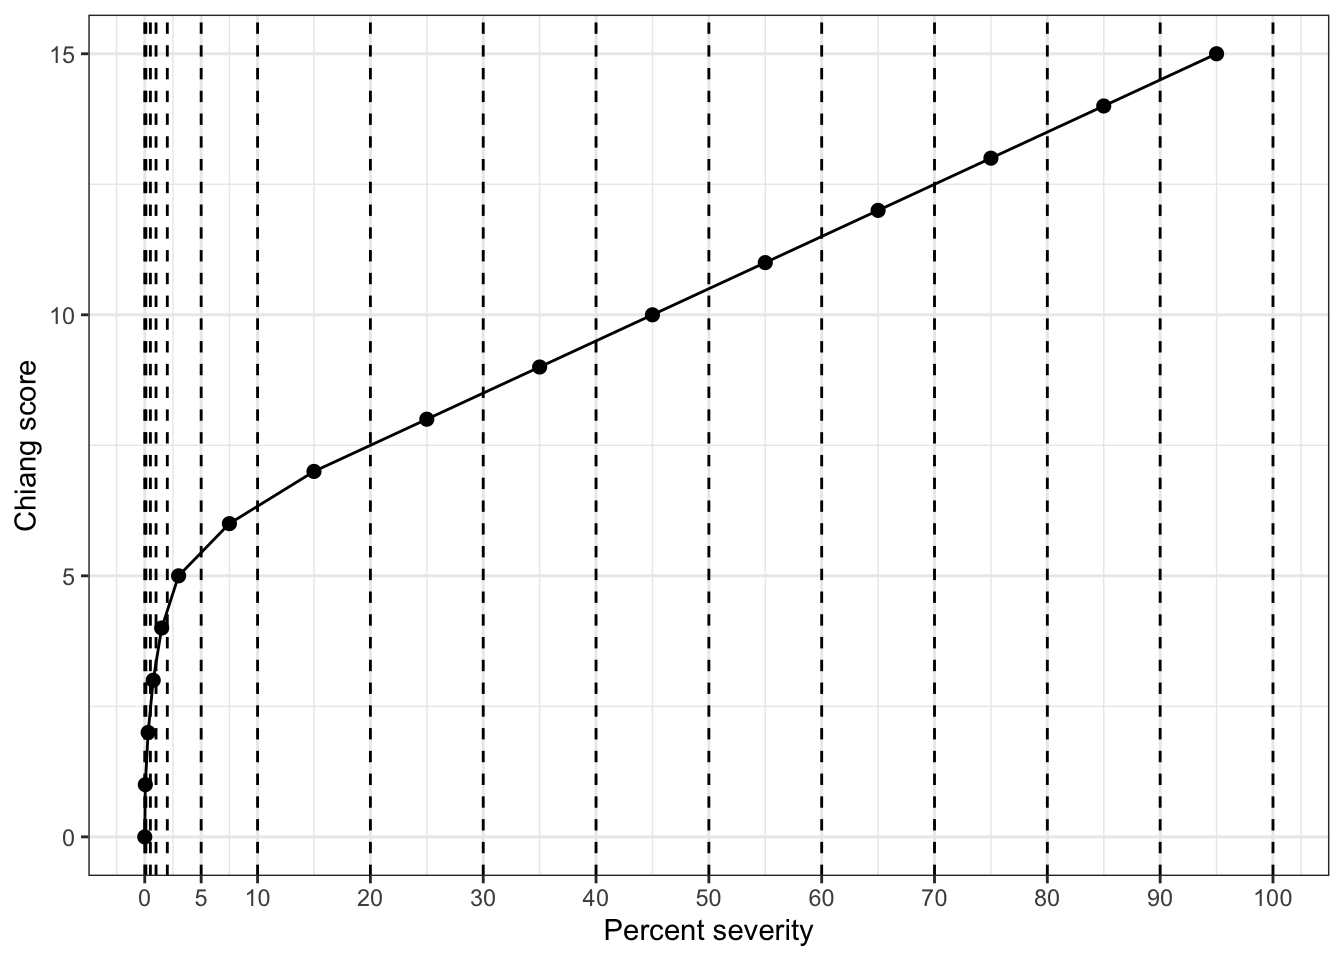
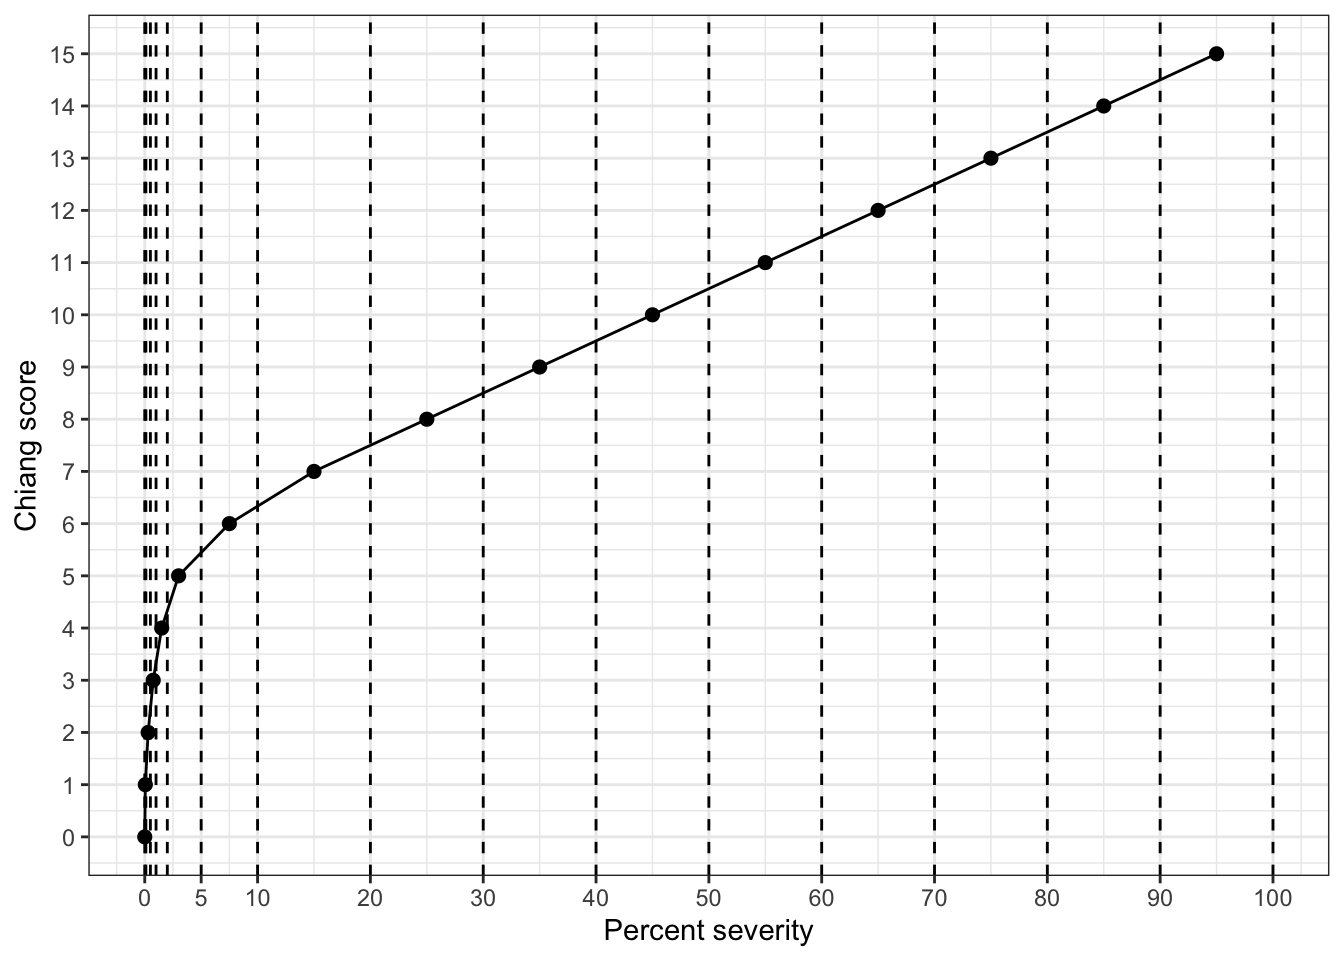
adjust chiang

Changed region(s): [[0.0312, 0.1562, 0.0625, 0.1875], [0.0312, 0.0938, 0.0625, 0.125]]

diff --git a/_book/data-ordinal.html b/_book/data-ordinal.html
@@ -293,7 +293,7 @@ gtag('config', 'G-5T7SZYQV79', { 'anonymize_ip': true});
 </li>
           <li class="sidebar-item">
   <div class="sidebar-item-container"> 
-  <a href="./spatial-tests.html" class="sidebar-item-text sidebar-link"><span class="chapter-number">14</span>&nbsp; <span class="chapter-title">Tests for spatial patterns</span></a>
+  <a href="./spatial-tests.html" class="sidebar-item-text sidebar-link"><span class="chapter-number">14</span>&nbsp; <span class="chapter-title">Tests for patterns</span></a>
   </div>
 </li>
       </ul>
@@ -620,24 +620,25 @@ Controversy of the H-B scale
 <span id="cb4-4"><a href="#cb4-4" aria-hidden="true" tabindex="-1"></a>  <span class="fu">ggplot</span>(<span class="fu">aes</span>(midpoint, ordinal))<span class="sc">+</span></span>
 <span id="cb4-5"><a href="#cb4-5" aria-hidden="true" tabindex="-1"></a>  <span class="fu">geom_point</span>(<span class="at">size =</span><span class="dv">2</span>)<span class="sc">+</span></span>
 <span id="cb4-6"><a href="#cb4-6" aria-hidden="true" tabindex="-1"></a>  <span class="fu">geom_line</span>()<span class="sc">+</span></span>
-<span id="cb4-7"><a href="#cb4-7" aria-hidden="true" tabindex="-1"></a>  <span class="fu">scale_x_continuous</span>(<span class="at">breaks =</span> <span class="fu">c</span>(<span class="dv">0</span>, <span class="dv">5</span>, <span class="dv">10</span>, <span class="dv">20</span>, <span class="dv">30</span>, <span class="dv">40</span>, <span class="dv">50</span>, <span class="dv">60</span>, <span class="dv">70</span>, <span class="dv">80</span>, <span class="dv">90</span>, <span class="dv">100</span>))<span class="sc">+</span></span>
-<span id="cb4-8"><a href="#cb4-8" aria-hidden="true" tabindex="-1"></a>  <span class="fu">geom_vline</span>(<span class="fu">aes</span>(<span class="at">xintercept =</span> <span class="dv">0</span>), <span class="at">linetype =</span> <span class="dv">2</span>)<span class="sc">+</span></span>
-<span id="cb4-9"><a href="#cb4-9" aria-hidden="true" tabindex="-1"></a>  <span class="fu">geom_vline</span>(<span class="fu">aes</span>(<span class="at">xintercept =</span> <span class="fl">0.1</span>), <span class="at">linetype =</span> <span class="dv">2</span>)<span class="sc">+</span></span>
-<span id="cb4-10"><a href="#cb4-10" aria-hidden="true" tabindex="-1"></a>  <span class="fu">geom_vline</span>(<span class="fu">aes</span>(<span class="at">xintercept =</span> <span class="fl">0.5</span>), <span class="at">linetype =</span> <span class="dv">2</span>)<span class="sc">+</span></span>
-<span id="cb4-11"><a href="#cb4-11" aria-hidden="true" tabindex="-1"></a>  <span class="fu">geom_vline</span>(<span class="fu">aes</span>(<span class="at">xintercept =</span> <span class="dv">1</span>), <span class="at">linetype =</span> <span class="dv">2</span>)<span class="sc">+</span></span>
-<span id="cb4-12"><a href="#cb4-12" aria-hidden="true" tabindex="-1"></a>  <span class="fu">geom_vline</span>(<span class="fu">aes</span>(<span class="at">xintercept =</span> <span class="dv">2</span>), <span class="at">linetype =</span> <span class="dv">2</span>)<span class="sc">+</span></span>
-<span id="cb4-13"><a href="#cb4-13" aria-hidden="true" tabindex="-1"></a>  <span class="fu">geom_vline</span>(<span class="fu">aes</span>(<span class="at">xintercept =</span> <span class="dv">5</span>), <span class="at">linetype =</span> <span class="dv">2</span>)<span class="sc">+</span></span>
-<span id="cb4-14"><a href="#cb4-14" aria-hidden="true" tabindex="-1"></a>  <span class="fu">geom_vline</span>(<span class="fu">aes</span>(<span class="at">xintercept =</span> <span class="dv">10</span>), <span class="at">linetype =</span> <span class="dv">2</span>)<span class="sc">+</span></span>
-<span id="cb4-15"><a href="#cb4-15" aria-hidden="true" tabindex="-1"></a>  <span class="fu">geom_vline</span>(<span class="fu">aes</span>(<span class="at">xintercept =</span> <span class="dv">20</span>), <span class="at">linetype =</span> <span class="dv">2</span>)<span class="sc">+</span></span>
-<span id="cb4-16"><a href="#cb4-16" aria-hidden="true" tabindex="-1"></a>  <span class="fu">geom_vline</span>(<span class="fu">aes</span>(<span class="at">xintercept =</span> <span class="dv">30</span>), <span class="at">linetype =</span> <span class="dv">2</span>)<span class="sc">+</span></span>
-<span id="cb4-17"><a href="#cb4-17" aria-hidden="true" tabindex="-1"></a>   <span class="fu">geom_vline</span>(<span class="fu">aes</span>(<span class="at">xintercept =</span> <span class="dv">40</span>), <span class="at">linetype =</span> <span class="dv">2</span>)<span class="sc">+</span></span>
-<span id="cb4-18"><a href="#cb4-18" aria-hidden="true" tabindex="-1"></a>   <span class="fu">geom_vline</span>(<span class="fu">aes</span>(<span class="at">xintercept =</span> <span class="dv">50</span>), <span class="at">linetype =</span> <span class="dv">2</span>)<span class="sc">+</span></span>
-<span id="cb4-19"><a href="#cb4-19" aria-hidden="true" tabindex="-1"></a>   <span class="fu">geom_vline</span>(<span class="fu">aes</span>(<span class="at">xintercept =</span> <span class="dv">60</span>), <span class="at">linetype =</span> <span class="dv">2</span>)<span class="sc">+</span></span>
-<span id="cb4-20"><a href="#cb4-20" aria-hidden="true" tabindex="-1"></a>   <span class="fu">geom_vline</span>(<span class="fu">aes</span>(<span class="at">xintercept =</span> <span class="dv">70</span>), <span class="at">linetype =</span> <span class="dv">2</span>)<span class="sc">+</span></span>
-<span id="cb4-21"><a href="#cb4-21" aria-hidden="true" tabindex="-1"></a>   <span class="fu">geom_vline</span>(<span class="fu">aes</span>(<span class="at">xintercept =</span> <span class="dv">80</span>), <span class="at">linetype =</span> <span class="dv">2</span>)<span class="sc">+</span></span>
-<span id="cb4-22"><a href="#cb4-22" aria-hidden="true" tabindex="-1"></a>   <span class="fu">geom_vline</span>(<span class="fu">aes</span>(<span class="at">xintercept =</span> <span class="dv">90</span>), <span class="at">linetype =</span> <span class="dv">2</span>)<span class="sc">+</span></span>
-<span id="cb4-23"><a href="#cb4-23" aria-hidden="true" tabindex="-1"></a>   <span class="fu">geom_vline</span>(<span class="fu">aes</span>(<span class="at">xintercept =</span> <span class="dv">100</span>), <span class="at">linetype =</span> <span class="dv">2</span>)<span class="sc">+</span></span>
-<span id="cb4-24"><a href="#cb4-24" aria-hidden="true" tabindex="-1"></a>  <span class="fu">labs</span>(<span class="at">x =</span> <span class="st">"Percent severity"</span>, <span class="at">y =</span> <span class="st">"Chiang score"</span>)</span></code><button title="Copy to Clipboard" class="code-copy-button"><i class="bi"></i></button></pre></div>
+<span id="cb4-7"><a href="#cb4-7" aria-hidden="true" tabindex="-1"></a>  <span class="fu">scale_y_continuous</span>(<span class="at">breaks =</span> <span class="fu">c</span>(<span class="dv">0</span><span class="sc">:</span><span class="dv">15</span>))<span class="sc">+</span></span>
+<span id="cb4-8"><a href="#cb4-8" aria-hidden="true" tabindex="-1"></a>  <span class="fu">scale_x_continuous</span>(<span class="at">breaks =</span> <span class="fu">c</span>(<span class="dv">0</span>, <span class="dv">5</span>, <span class="dv">10</span>, <span class="dv">20</span>, <span class="dv">30</span>, <span class="dv">40</span>, <span class="dv">50</span>, <span class="dv">60</span>, <span class="dv">70</span>, <span class="dv">80</span>, <span class="dv">90</span>, <span class="dv">100</span>))<span class="sc">+</span></span>
+<span id="cb4-9"><a href="#cb4-9" aria-hidden="true" tabindex="-1"></a>  <span class="fu">geom_vline</span>(<span class="fu">aes</span>(<span class="at">xintercept =</span> <span class="dv">0</span>), <span class="at">linetype =</span> <span class="dv">2</span>)<span class="sc">+</span></span>
+<span id="cb4-10"><a href="#cb4-10" aria-hidden="true" tabindex="-1"></a>  <span class="fu">geom_vline</span>(<span class="fu">aes</span>(<span class="at">xintercept =</span> <span class="fl">0.1</span>), <span class="at">linetype =</span> <span class="dv">2</span>)<span class="sc">+</span></span>
+<span id="cb4-11"><a href="#cb4-11" aria-hidden="true" tabindex="-1"></a>  <span class="fu">geom_vline</span>(<span class="fu">aes</span>(<span class="at">xintercept =</span> <span class="fl">0.5</span>), <span class="at">linetype =</span> <span class="dv">2</span>)<span class="sc">+</span></span>
+<span id="cb4-12"><a href="#cb4-12" aria-hidden="true" tabindex="-1"></a>  <span class="fu">geom_vline</span>(<span class="fu">aes</span>(<span class="at">xintercept =</span> <span class="dv">1</span>), <span class="at">linetype =</span> <span class="dv">2</span>)<span class="sc">+</span></span>
+<span id="cb4-13"><a href="#cb4-13" aria-hidden="true" tabindex="-1"></a>  <span class="fu">geom_vline</span>(<span class="fu">aes</span>(<span class="at">xintercept =</span> <span class="dv">2</span>), <span class="at">linetype =</span> <span class="dv">2</span>)<span class="sc">+</span></span>
+<span id="cb4-14"><a href="#cb4-14" aria-hidden="true" tabindex="-1"></a>  <span class="fu">geom_vline</span>(<span class="fu">aes</span>(<span class="at">xintercept =</span> <span class="dv">5</span>), <span class="at">linetype =</span> <span class="dv">2</span>)<span class="sc">+</span></span>
+<span id="cb4-15"><a href="#cb4-15" aria-hidden="true" tabindex="-1"></a>  <span class="fu">geom_vline</span>(<span class="fu">aes</span>(<span class="at">xintercept =</span> <span class="dv">10</span>), <span class="at">linetype =</span> <span class="dv">2</span>)<span class="sc">+</span></span>
+<span id="cb4-16"><a href="#cb4-16" aria-hidden="true" tabindex="-1"></a>  <span class="fu">geom_vline</span>(<span class="fu">aes</span>(<span class="at">xintercept =</span> <span class="dv">20</span>), <span class="at">linetype =</span> <span class="dv">2</span>)<span class="sc">+</span></span>
+<span id="cb4-17"><a href="#cb4-17" aria-hidden="true" tabindex="-1"></a>  <span class="fu">geom_vline</span>(<span class="fu">aes</span>(<span class="at">xintercept =</span> <span class="dv">30</span>), <span class="at">linetype =</span> <span class="dv">2</span>)<span class="sc">+</span></span>
+<span id="cb4-18"><a href="#cb4-18" aria-hidden="true" tabindex="-1"></a>   <span class="fu">geom_vline</span>(<span class="fu">aes</span>(<span class="at">xintercept =</span> <span class="dv">40</span>), <span class="at">linetype =</span> <span class="dv">2</span>)<span class="sc">+</span></span>
+<span id="cb4-19"><a href="#cb4-19" aria-hidden="true" tabindex="-1"></a>   <span class="fu">geom_vline</span>(<span class="fu">aes</span>(<span class="at">xintercept =</span> <span class="dv">50</span>), <span class="at">linetype =</span> <span class="dv">2</span>)<span class="sc">+</span></span>
+<span id="cb4-20"><a href="#cb4-20" aria-hidden="true" tabindex="-1"></a>   <span class="fu">geom_vline</span>(<span class="fu">aes</span>(<span class="at">xintercept =</span> <span class="dv">60</span>), <span class="at">linetype =</span> <span class="dv">2</span>)<span class="sc">+</span></span>
+<span id="cb4-21"><a href="#cb4-21" aria-hidden="true" tabindex="-1"></a>   <span class="fu">geom_vline</span>(<span class="fu">aes</span>(<span class="at">xintercept =</span> <span class="dv">70</span>), <span class="at">linetype =</span> <span class="dv">2</span>)<span class="sc">+</span></span>
+<span id="cb4-22"><a href="#cb4-22" aria-hidden="true" tabindex="-1"></a>   <span class="fu">geom_vline</span>(<span class="fu">aes</span>(<span class="at">xintercept =</span> <span class="dv">80</span>), <span class="at">linetype =</span> <span class="dv">2</span>)<span class="sc">+</span></span>
+<span id="cb4-23"><a href="#cb4-23" aria-hidden="true" tabindex="-1"></a>   <span class="fu">geom_vline</span>(<span class="fu">aes</span>(<span class="at">xintercept =</span> <span class="dv">90</span>), <span class="at">linetype =</span> <span class="dv">2</span>)<span class="sc">+</span></span>
+<span id="cb4-24"><a href="#cb4-24" aria-hidden="true" tabindex="-1"></a>   <span class="fu">geom_vline</span>(<span class="fu">aes</span>(<span class="at">xintercept =</span> <span class="dv">100</span>), <span class="at">linetype =</span> <span class="dv">2</span>)<span class="sc">+</span></span>
+<span id="cb4-25"><a href="#cb4-25" aria-hidden="true" tabindex="-1"></a>  <span class="fu">labs</span>(<span class="at">x =</span> <span class="st">"Percent severity"</span>, <span class="at">y =</span> <span class="st">"Chiang score"</span>)</span></code><button title="Copy to Clipboard" class="code-copy-button"><i class="bi"></i></button></pre></div>
 <div class="cell-output-display">
 <div id="fig-chiagn" class="quarto-figure quarto-figure-center anchored">
 <figure class="figure">
